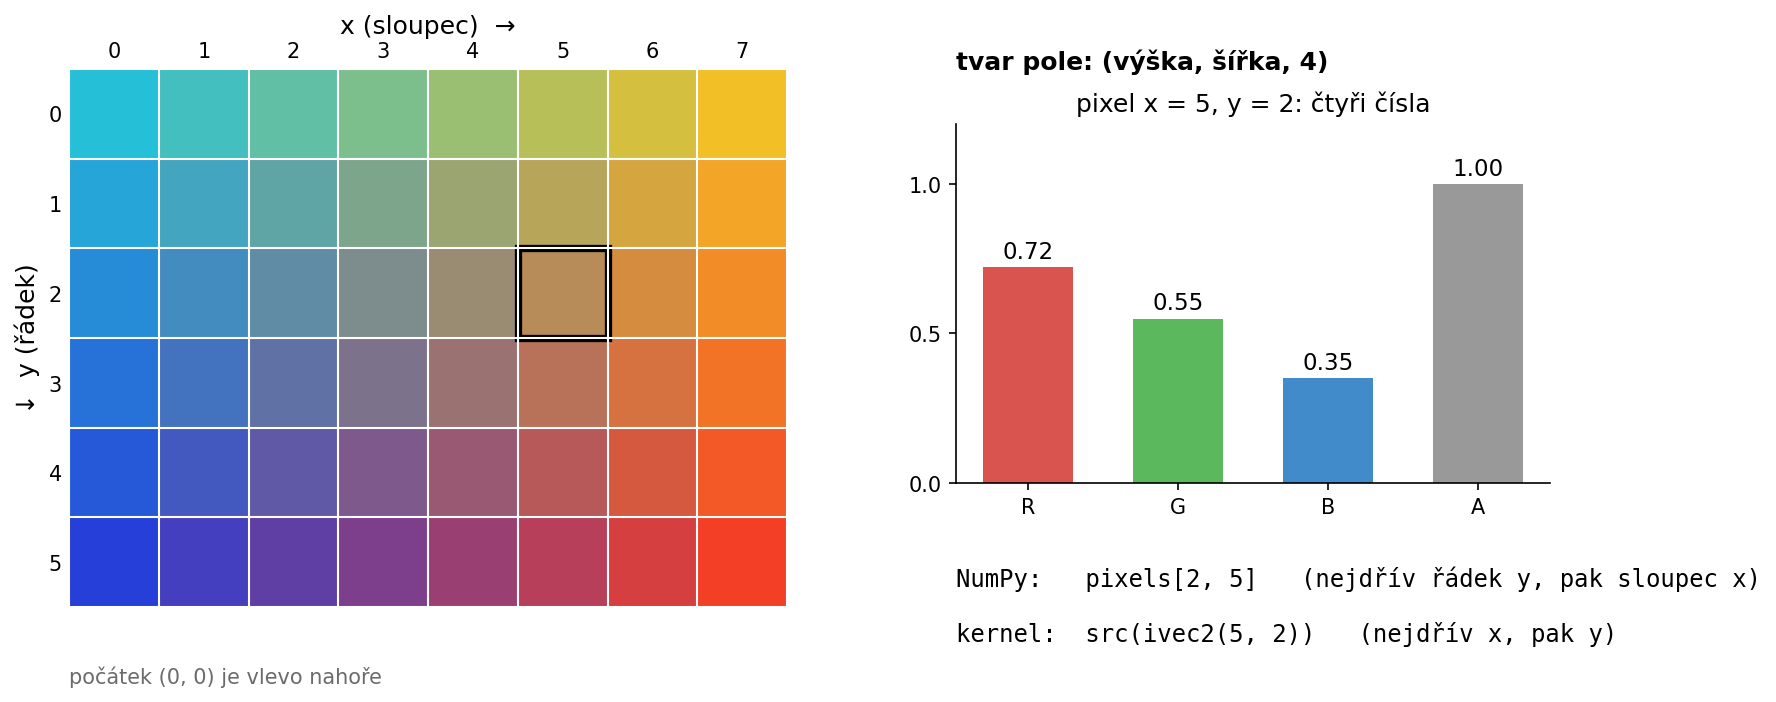
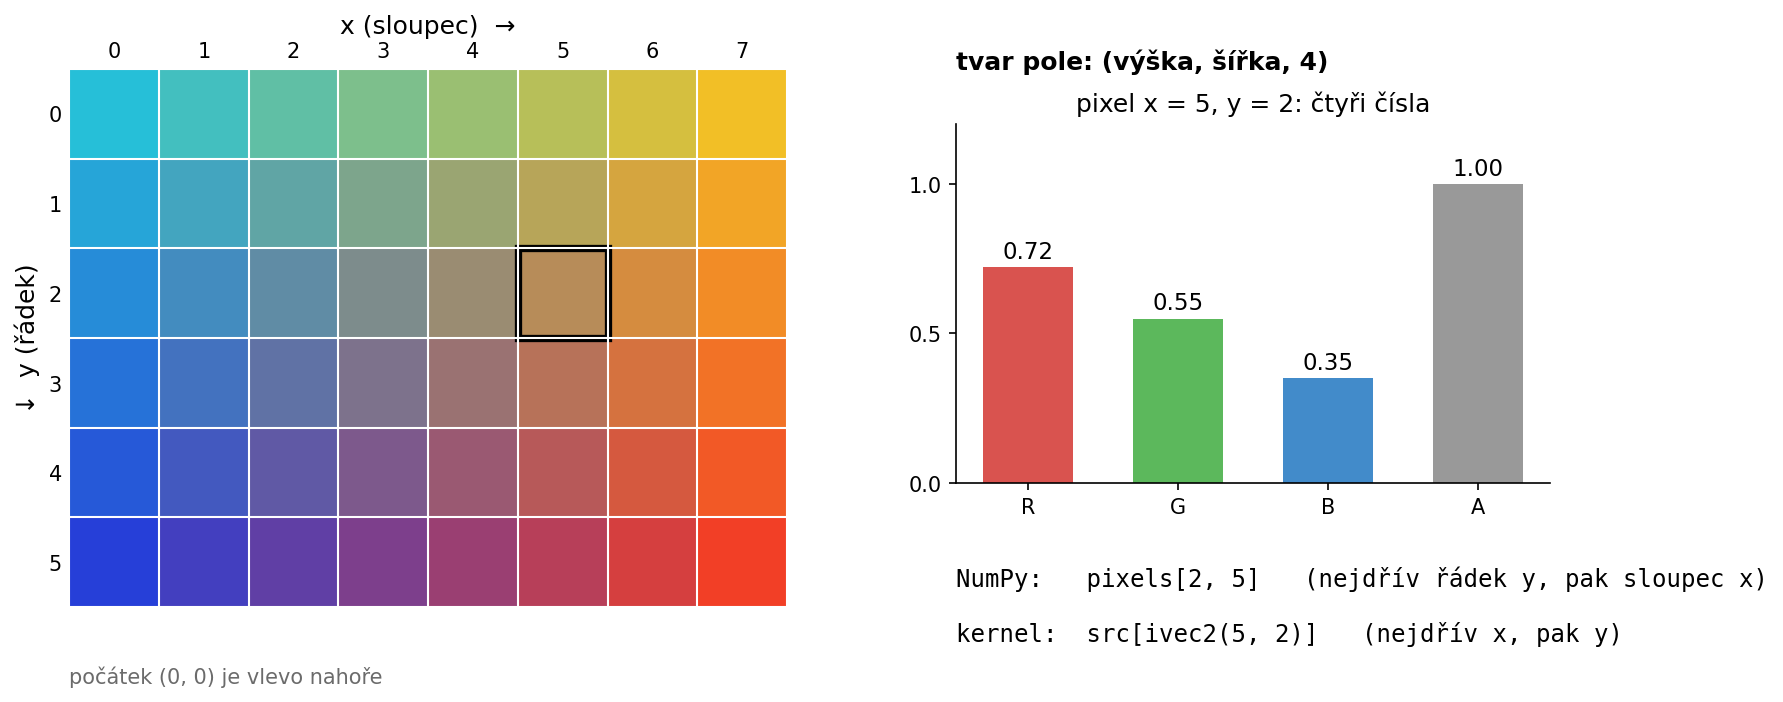
Lesson 0: teach the bracket forms of the pixel and kernel styles
Sara now reads a layer with src[at], loads and stores in a whole kernel
with img[p] and img[p] = v, and counts from zero with range(n). The
function table, the inversion kernels, the GLSL difference table and the
image_as_array picture now show those forms. The generated-kernel listing
stays as Sara writes it, with image_load and image_store, and a paragraph
says the two spellings mean the same, so a reader who opens a real wrapper
is not surprised.

diff --git a/build/lesson_00_notebook.py b/build/lesson_00_notebook.py
@@ -97,7 +97,7 @@ Přehled toho, co lekce používá, s odkazem na sekci, kde se funkce objeví po
 | Zápis | Co dělá | Sekce |
 |---|---|---|
 | `uniform float x: hint_range(0, 1) = 1.0` | parametr kernelu s posuvníkem | 4 |
-| `src(at)` | barva zdrojové vrstvy v pixelu `at` | 4 |
+| `src[at]` | barva zdrojové vrstvy v pixelu `at` | 4 |
 | `vec3`, `vec4`, `c.rgb`, `c.a` | vektory a jejich složky, jako v GLSL | 4 |
 | `mix(a, b, t)` | lineární přechod z `a` do `b` podle `t` od 0 do 1 | 4 |
 | `srgb_to_linear_srgb`, `linear_srgb_to_srgb` | dekódování a kódování sRGB, knihovna `linear_srgb_color_space` | 5 |
@@ -373,7 +373,7 @@ code("""
 uniform float amount: hint_range(0, 1) = 1.0
 
 def pixel(ivec2 at) -> vec4:
-    vec4 c = src(at)
+    vec4 c = src[at]
     return vec4(mix(c.rgb, 1.0 - c.rgb, amount), c.a)
 """)
 
@@ -384,7 +384,7 @@ Pod buňkou se objeví posuvník `amount` a náhled nové vrstvy. Posuvník měn
 |---|---|
 | `uniform float amount: hint_range(0, 1) = 1.0` | parametr kernelu s výchozí hodnotou 1.0. `hint_range(0, 1)` z něj udělá posuvník od 0 do 1, stejně jako v shaderech Godotu |
 | `def pixel(ivec2 at) -> vec4:` | funkce, kterou GPU zavolá **pro každý pixel zvlášť**. `at` je pozice pixelu `(x, y)`, výsledek je jeho nová barva RGBA |
-| `vec4 c = src(at)` | přečte pixel na pozici `at` ze zdrojové vrstvy (`color_chart`) |
+| `vec4 c = src[at]` | přečte pixel na pozici `at` ze zdrojové vrstvy (`color_chart`) |
 | `c.rgb`, `c.a` | barevné kanály a alfa, stejný swizzle jako v GLSL |
 | `mix(c.rgb, 1.0 - c.rgb, amount)` | přechod mezi původní a invertovanou barvou |
 
@@ -456,7 +456,7 @@ code("""
 uniform float amount: hint_range(0, 1) = 1.0
 
 def pixel(ivec2 at) -> vec4:
-    vec4 c = src(at)
+    vec4 c = src[at]
     float y = 0.0                 # TODO: mean of the three channels
     vec3 grey = vec3(y)
     return vec4(mix(c.rgb, grey, amount), c.a)
@@ -522,7 +522,7 @@ import oklab_color_space
 uniform float amount: hint_range(0, 1) = 1.0
 
 def pixel(ivec2 at) -> vec4:
-    vec4 c = src(at)
+    vec4 c = src[at]
     vec3 lab = linear_srgb_to_oklab(srgb_to_linear_srgb(c.rgb))   # lab.x is L, lab.yz are a and b
     # TODO: scale a and b by (1 - amount), keep L
     vec3 rgb = linear_srgb_to_srgb(oklab_to_linear_srgb(lab))
@@ -554,7 +554,7 @@ Fragment shader z OpenGL dostane jeden fragment vzniklý rasterizací trojúheln
 
 @img(fragment_vs_compute.png, 900, OpenGL pipeline a compute kernel)
 
-Funkce `pixel(ivec2 at) -> vec4` se fragment shaderu podobá, dostane pozici a vrátí barvu. `src()` ale přečte **libovolný** pixel vrstvy, nejen ten na pozici `at`. To později využije rozostření i detekce hran.
+Funkce `pixel(ivec2 at) -> vec4` se fragment shaderu podobá, dostane pozici a vrátí barvu. Hranatá závorka `src[p]` ale přečte **libovolný** pixel vrstvy, nejen ten na pozici `at`. To později využije rozostření i detekce hran.
 
 ### Rozdíly proti GLSL
 
@@ -563,9 +563,11 @@ Funkce `pixel(ivec2 at) -> vec4` se fragment shaderu podobá, dostane pozici a v
 | `{ … }` a středníky | odsazení o 4 mezery, dvojtečka na konci řádku |
 | `float f(vec3 c) { … }` | `def f(vec3 c) -> float:` |
 | `&&`, `\|\|`, `!` | `and`, `or`, `not` |
-| `for (int i = 0; i < n; i++)` | `for i in range(0, n):` |
+| `for (int i = 0; i < n; i++)` | `for i in range(n):` |
+| `for (int i = 1; i <= n; i++)` | `for i in range_inclusive(1, n):` |
 | `switch` / `case` / `default` | `match` / `case` / `case _` |
-| `imageLoad`, `imageStore`, `imageSize` | `image_load`, `image_store`, `image_size` |
+| `imageLoad(img, p)`, `imageStore(img, p, v)` | `img[p]`, `img[p] = v` |
+| `imageSize` | `image_size` |
 | `ivec2(gl_GlobalInvocationID.xy)` | `pixel` |
 | `#include` | `import` |
 | `// komentář` | `# komentář` |
@@ -580,7 +582,7 @@ md(r"""
 uniform float amount: hint_range(0, 1) = 1.0
 
 def pixel(ivec2 at) -> vec4:
-    vec4 c = src(at)
+    vec4 c = src[at]
     return vec4(mix(c.rgb, 1.0 - c.rgb, amount), c.a)
 ```
 """)
@@ -672,9 +674,11 @@ Překlad proběhne jen při spuštění buňky. Pohyb posuvníkem pošle Sáře 
 
 ### Krátký tvar a celý kernel
 
-Krátký tvar s funkcí `pixel` stačí, když jedna vrstva vstupuje, jedna vystupuje a barva pixelu závisí na něm a na jeho sousedech. `src()` mimo vrstvu vrací průhlednou černou, okraje proto hlídat nemusíte. V buňce můžete psát pomocné funkce, cykly, podmínky a struktury a načítat knihovny přes `import`.
+Krátký tvar s funkcí `pixel` stačí, když jedna vrstva vstupuje, jedna vystupuje a barva pixelu závisí na něm a na jeho sousedech. `src[p]` mimo vrstvu vrací průhlednou černou, okraje proto hlídat nemusíte. V buňce můžete psát pomocné funkce, cykly, podmínky a struktury a načítat knihovny přes `import`.
 
 Do buňky jde napsat i celý kernel, jako ten v rozbalovacím bloku výše. Umí vše, co compute shader v GLSL 450, třeba sdílenou paměť skupiny (*shared memory*), `barrier()` a atomické operace. Parametry (`uniform`) se předávají jako push constants, dohromady nejvýš 128 bajtů, což stačí na desítky posuvníků.
+
+V celém kernelu se obrázek čte i zapisuje hranatými závorkami: `src[p]` čte pixel `p`, `dst[p] = v` do něj zapíše. Vygenerovaný kernel výše je napsaný ještě s `image_load(img, p)` a `image_store(img, p, v)`, ty fungují dál a znamenají totéž.
 """)
 
 # --- 7. NumPy -----------------------------------------------------------------
@@ -1031,7 +1035,7 @@ md(r"""
 - Obrázek je pole tvaru **(výška, šířka, 4)**. V NumPy se indexuje `pixels[y, x]`, v kernelu `(x, y)`.
 - Příkazy jdou mezi notebookem a Sárou přes místní spojení, pixely přes dočasný soubor `.npy`.
 - Cyklus přes pixely v Pythonu je pomalý. NumPy počítá s celým polem najednou, GPU dává každému pixelu vlastní vlákno.
-- Kernel v buňce `%%gmacs` je funkce `pixel(ivec2 at) -> vec4`. `src(at)` čte zdrojovou vrstvu, `uniform` s `hint_range` je posuvník. Jeho výkon popisuje čas GPU z `sara.bench`.
+- Kernel v buňce `%%gmacs` je funkce `pixel(ivec2 at) -> vec4`. `src[at]` čte zdrojovou vrstvu, `uniform` s `hint_range` je posuvník. Jeho výkon popisuje čas GPU z `sara.bench`.
 - **gmacs je dialekt GLSL** s odsazením místo závorek. Zbytek kernelu kolem vaší funkce doplní Sára.
 - Průměr kanálů není dobrá šedá. Hodnoty v sRGB je potřeba dekódovat a světlost $L$ z OKLabu odpovídá tomu, jak světlost vnímá oko.
 - Efekt pro Kritu je **`PARAMS` a `apply(img, ...)`** v NumPy, šablona `pga_filter` ho spustí beze změny.
@@ -1072,7 +1076,7 @@ code("""
 uniform float width: hint_range(2, 64, 1) = 16.0
 
 def pixel(ivec2 at) -> vec4:
-    vec4 c = src(at)
+    vec4 c = src[at]
     int stripe = at.x / int(width)
     # TODO: return odd stripes inverted
     return c
@@ -1135,7 +1139,7 @@ Funkce, které notebook používá, jsou v souborech `sara.py`, `sara_notebook.p
 | `%%gmacs "Zdroj" -> "Cíl"` | spustí kernel nad vrstvou „Zdroj“ a zapíše výsledek do vrstvy „Cíl“, kterou vytvoří, pokud neexistuje |
 | `uniform float x: hint_range(0, 1) = 0.5` | parametr kernelu s posuvníkem od 0 do 1. Třetí číslo nastaví krok: `hint_range(0, 1, 0.1)` |
 | `def pixel(ivec2 at) -> vec4:` | funkce pro jeden pixel |
-| `src(at)` | barva zdrojové vrstvy na pozici `at`, mimo vrstvu průhledná černá |
+| `src[at]` | barva zdrojové vrstvy na pozici `at`, mimo vrstvu průhledná černá |
 | `import oklab_color_space` | načte knihovnu Sáry |
 """)
 

diff --git a/build/lesson_00_diagrams.py b/build/lesson_00_diagrams.py
@@ -90,7 +90,7 @@ for s in ("top", "right"):
     bx.spines[s].set_visible(False)
 
 fig.text(0.6, 0.15, f"NumPy:   pixels[{PY}, {PX}]   (nejdřív řádek y, pak sloupec x)", fontsize=11.5, family="monospace")
-fig.text(0.6, 0.07, f"kernel:  src(ivec2({PX}, {PY}))   (nejdřív x, pak y)", fontsize=11.5, family="monospace")
+fig.text(0.6, 0.07, f"kernel:  src[ivec2({PX}, {PY})]   (nejdřív x, pak y)", fontsize=11.5, family="monospace")
 fig.text(0.6, 0.90, "tvar pole: (výška, šířka, 4)", fontsize=12, weight="bold")
 save(fig, "image_as_array.png")
 
